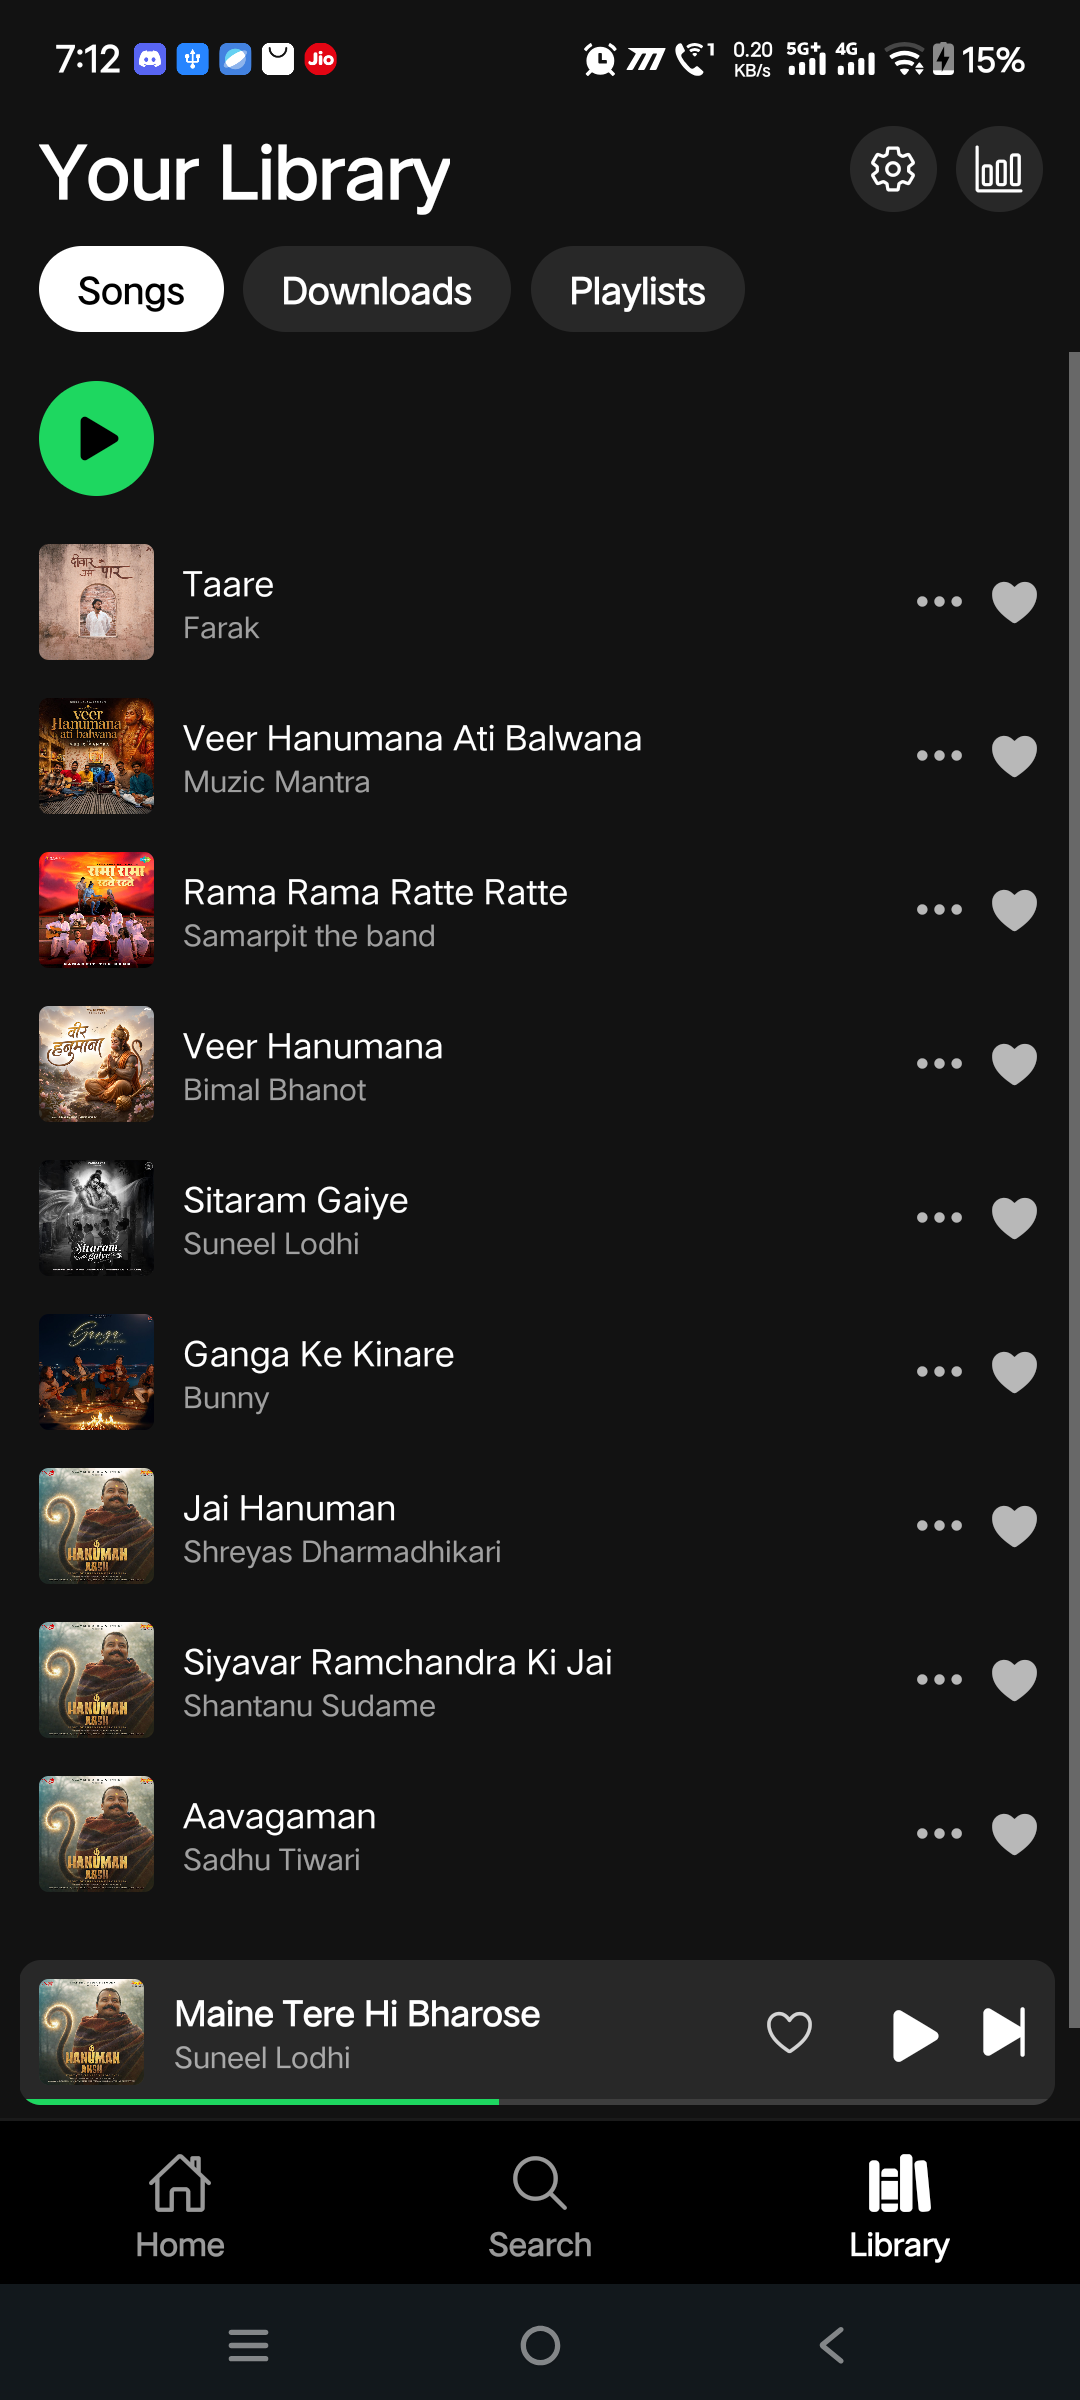
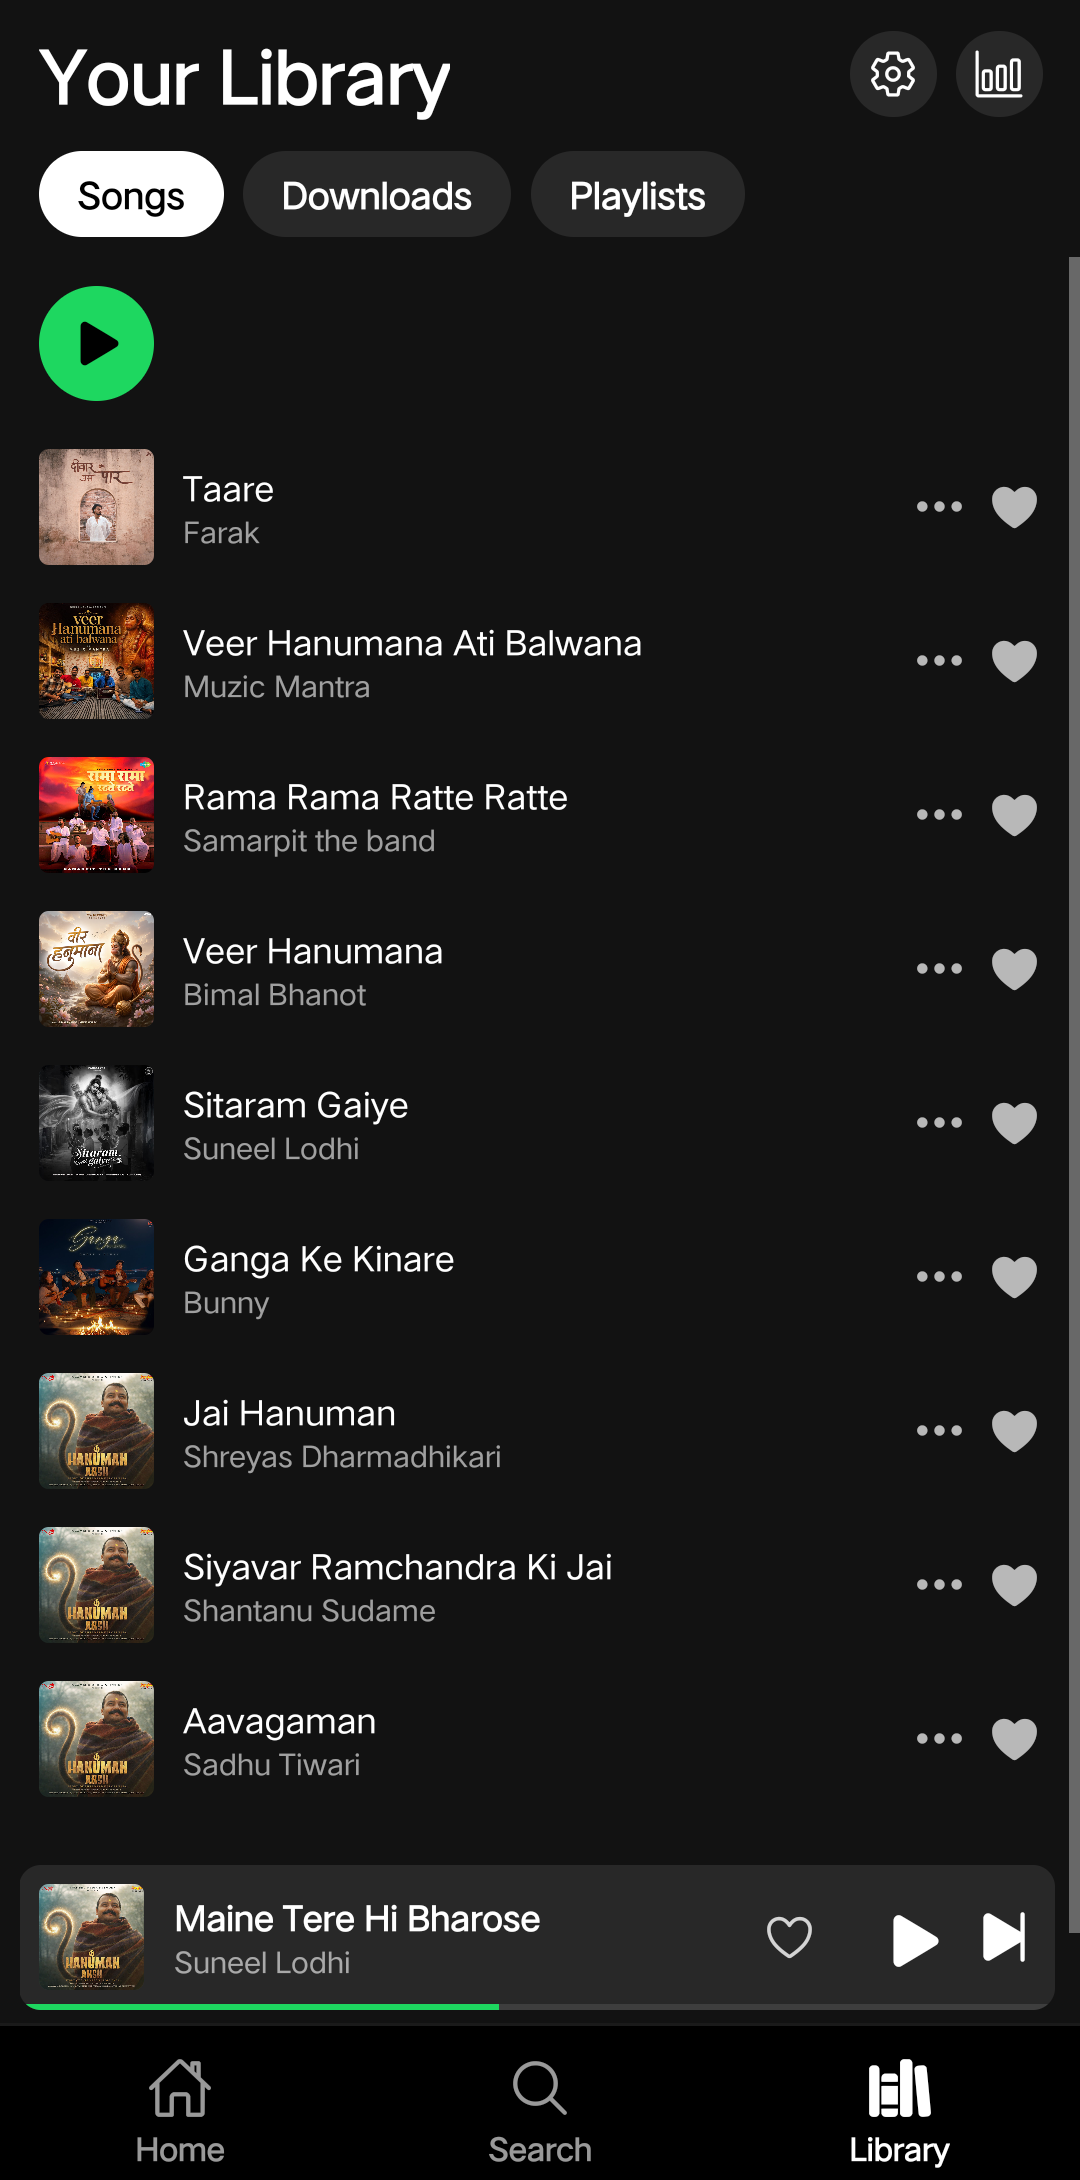
docs: crop system status/nav bars from screenshots & add in-depth feature breakdown

diff --git a/README.md b/README.md
@@ -1,107 +1,166 @@
-# 🎵 Spodify — Official Releases & Updates
+# 🎵 Spodify — The High-Fidelity Music Experience for Android
 
 [![Latest Release](https://img.shields.io/github/v/release/xauravww/spodify-releases?color=1DB954&label=Latest%20Version&style=for-the-badge)](https://github.com/xauravww/spodify-releases/releases/latest)
 [![Free](https://img.shields.io/badge/Price-100%25%20Free-1ED760?style=for-the-badge)](#-100-free-policy--scam-warning)
 [![VirusTotal](https://img.shields.io/badge/VirusTotal-Clean%20(0%20Detections)-brightgreen?style=for-the-badge)](#-security--virustotal-verification)
 [![Platform](https://img.shields.io/badge/Platform-Android%208.0%2B-blue?style=for-the-badge)](https://github.com/xauravww/spodify-releases/releases/latest)
+[![License](https://img.shields.io/badge/Status-Actively%20Maintained-success?style=for-the-badge)](#-why-is-the-source-repository-private)
 
-Welcome to the official release hub for **Spodify** — a modern, fast, and lightweight Android music streaming application designed for audio lovers who want studio-quality music without ads, bloatware, or paid subscriptions.
-
----
-
-## 📥 Download Latest Release
-
-👉 **[Download Spodify v1.0.1 APK (Latest)](https://github.com/xauravww/spodify-releases/releases/download/v1.0.1/spodify-release.apk)**
-
-> 💡 **Built-In Auto-Updater:** Spodify comes with a built-in auto-updater. Once installed, future updates will be notified directly inside the app with seamless 1-tap background downloading and installation!
+Spodify is an advanced, privacy-first Android music streaming client built with a native architecture. It delivers true **Studio Master 320 kbps** audio fidelity, multi-partner streaming failover, hardware DSP frequency tuning, real-time synchronized karaoke lyrics, and a built-in auto-updater — completely free of ads, subscriptions, and telemetry.
 
 ---
 
-## 📱 App Feature Showcase
+## 📥 Download Spodify
 
-| Home Discovery | Streaming Partners | In-App Updater | Now Playing |
-| :---: | :---: | :---: | :---: |
-| <img src="screenshots/feature_home.png" width="200" alt="Home Screen" /> | <img src="screenshots/feature_streaming_partners.png" width="200" alt="Streaming Partners" /> | <img src="screenshots/feature_updater.png" width="200" alt="In-App Updater" /> | <img src="screenshots/feature_now_playing.png" width="200" alt="Now Playing Screen" /> |
+| Release | Version | Build | Package | Status |
+| :--- | :--- | :--- | :--- | :--- |
+| **Latest** | **v1.0.1** | 2 | `spodify-release.apk` | 🟢 Stable / Recommended |
 
-| Synchronized Lyrics | Hardware Equalizer | Audio Visualizer | Live Queue |
-| :---: | :---: | :---: | :---: |
-| <img src="screenshots/feature_lyrics.png" width="200" alt="Synchronized Lyrics" /> | <img src="screenshots/feature_equalizer.png" width="200" alt="Hardware Equalizer" /> | <img src="screenshots/feature_visualizer_settings.png" width="200" alt="Audio Visualizer" /> | <img src="screenshots/feature_queue.png" width="200" alt="Queue Management" /> |
+👉 **[Direct Download: spodify-release.apk (v1.0.1)](https://github.com/xauravww/spodify-releases/releases/download/v1.0.1/spodify-release.apk)**
 
-| Universal Search | Spotify Sync | Library Hub | Offline Downloads |
-| :---: | :---: | :---: | :---: |
-| <img src="screenshots/feature_search.png" width="200" alt="Search Screen" /> | <img src="screenshots/feature_spotify_sync.png" width="200" alt="Spotify Sync" /> | <img src="screenshots/feature_library.png" width="200" alt="User Library" /> | <img src="screenshots/feature_downloads.png" width="200" alt="Offline Downloads" /> |
+> 💡 **Seamless In-App Updates:** You only need to manually install the APK once. Every subsequent update is detected automatically by the built-in updater, allowing 1-tap downloads and installation directly inside the app.
 
 ---
 
-## ✨ Key Features & Architecture
+## 📱 Visual App Tour
 
-- 🎧 **Studio Master 320 kbps Streaming:** Direct lossless-grade 320 kbps progressive audio with crystal clear highs and deep, punchy bass.
-- ⚡ **Multi-Source Streaming & Prioritization:** Choose your preferred primary streaming partner in Settings (*Studio Master 320k*, *Spotify Match*, or *Universal Catalog*).
-- 🛡 **Smart Failover Guarantee:** If a track or rare remix is missing on your primary partner, Spodify instantly streams it from the next partner with zero silence or lag.
-- 🚫 **100% Cookie-Free:** No browser extensions, no cookie copying, and no setup hassle. High quality works straight out of the box.
-- ♾ **No 56s/60s Audio Cutoff:** Fully uncapped progressive streaming ensures songs play smoothly from start to finish.
-- 🎚 **Hardware Equalizer:** 10-band DSP equalizer with bit-perfect bypass, bass boost, and audiophile sound presets.
-- 🎤 **Synchronized Karaoke Lyrics:** Millisecond-accurate word-by-word dynamic lyrics with tap-to-seek playback.
-- 🌊 **60 FPS Audio Visualizer:** Real-time frequency bars, neon waveforms, radial pulse, and customizable glow accents.
-- 📥 **Offline Downloads:** Save your favorite songs directly to your device for offline playback with zero expiration dates.
-- 🔄 **Spotify Sync:** Sync your public and private Spotify playlists seamlessly without requiring Spotify Premium credentials.
+Below is a direct tour of Spodify's core interface, captured from live playback sessions.
+
+| 🏠 Home & Discovery | ⚡ Streaming Partners | 📲 In-App Auto-Updater | 🎵 Now Playing & Artwork |
+| :---: | :---: | :---: | :---: |
+| <img src="screenshots/feature_home.png" width="220" alt="Home Screen" /> | <img src="screenshots/feature_streaming_partners.png" width="220" alt="Streaming Engine" /> | <img src="screenshots/feature_updater.png" width="220" alt="In-App Updater" /> | <img src="screenshots/feature_now_playing.png" width="220" alt="Now Playing Screen" /> |
+
+| 🎤 Synchronized Lyrics | 🎚 10-Band Hardware DSP | 🌊 60 FPS Visualizer | 📋 Dynamic Queue |
+| :---: | :---: | :---: | :---: |
+| <img src="screenshots/feature_lyrics.png" width="220" alt="Synchronized Lyrics" /> | <img src="screenshots/feature_equalizer.png" width="220" alt="Hardware Equalizer" /> | <img src="screenshots/feature_visualizer_settings.png" width="220" alt="Audio Visualizer" /> | <img src="screenshots/feature_queue.png" width="220" alt="Queue Management" /> |
+
+| 🔍 Universal Search | 🔄 Spotify Sync & Import | 📚 Your Library | 💾 Permanent Downloads |
+| :---: | :---: | :---: | :---: |
+| <img src="screenshots/feature_search.png" width="220" alt="Search Screen" /> | <img src="screenshots/feature_spotify_sync.png" width="220" alt="Spotify Sync" /> | <img src="screenshots/feature_library.png" width="220" alt="User Library" /> | <img src="screenshots/feature_downloads.png" width="220" alt="Offline Downloads" /> |
+
+---
+
+## 🚀 In-Depth Feature Breakdown
+
+### 1. 🎧 Studio Master Streaming & Multi-Partner Engine
+- **User-Selectable Engine**: Configure your prioritized streaming source under **Settings → Preferred Streaming Partner**:
+  - **Studio Master (320 kbps)**: Highest fidelity progressive stream. Delivers rich dynamic range, uncompressed acoustic depth, punchy sub-bass, and crystal-clear high frequencies.
+  - **Spotify Match**: 1:1 catalog matching based directly on Spotify track metadata, bypassing trackers and regional restrictions.
+  - **Universal Catalog**: Maximum catalog coverage with 100M+ songs, covers, Indian regional music, and live performances.
+- **Smart Failover Guarantee**: If a mirror encounters network latency, slow CDN response, or a missing regional track, Spodify's engine transparently fails over to the next mirror within milliseconds. You will never experience a stalled buffer or silence.
+- **Permanent 56s/60s Cutoff Resolution**: Unlike naive streaming bots that stall at 56s due to chunk rate limits, Spodify incorporates progressive chunk streaming with zero cutoff timeouts.
+- **100% Zero-Cookie Architecture**: No browser extensions, no cookie exports, and no expiring tokens. High-bitrate streaming works out of the box.
+
+### 2. 🎚 10-Band Hardware DSP Equalizer
+- **Direct Hardware Signal Processing**: Connects directly to Android's low-level audio output engine for latency-free real-time acoustic shaping.
+- **10 Discrete Frequency Bands**: Fine-tune specific frequencies from deep sub-bass to air harmonics:
+  `31 Hz` • `62 Hz` • `125 Hz` • `250 Hz` • `500 Hz` • `1 kHz` • `2 kHz` • `4 kHz` • `8 kHz` • `16 kHz` with ±12 dB precision control.
+- **Bit-Perfect Audiophile Bypass Switch**: Enable pure direct output to disable all DSP processing and hear the untouched studio master recording.
+- **Acoustic Presets**: Quick-switch presets for **Flat (Bit-Perfect)**, **Bass Booster**, **Acoustic**, **Vocal Enhancer**, and **Custom**.
+
+### 3. 🎤 Real-Time Synchronized Karaoke Lyrics
+- **Millisecond-Accurate Dynamic Lyrics**: Lyrics scroll dynamically with the artist's vocals in real time with high-visibility line tracking.
+- **Interactive Tap-to-Seek**: Tap any lyric line (past or upcoming) to jump playback immediately to that exact timestamp.
+- **Local Lyric Caching**: Once fetched, lyrics are saved locally for instant retrieval during offline or repeat listening.
+
+### 4. 🌊 60 FPS Real-Time Audio Visualizer
+- **Fluid Waveform Synthesis**: Renders smooth audio visualizers directly above playback controls with zero frame drops.
+- **Multiple Visual Styles**:
+  - **Equalizer Bars**: Classic multi-channel frequency spectrum bars.
+  - **Neon Waveform**: Liquid oscillating neon wave.
+  - **Radial Pulse**: Dynamic expanding acoustic pulse.
+  - **Peak Spectrum**: High-contrast audio energy visualizer.
+- **Color Accents**: Choose from Spotify Neon Green, Cyberpunk Amber, Electric Violet, or Neon Cyan.
+
+### 5. 🔍 Universal Search & Discovery Explorer
+- **Real-Time Query Completion**: Fast predictive search across tracks, artists, albums, and playlists.
+- **Genre & Mood Explorer**: Dedicated visual tiles for Bollywood, Punjabi, Hip-Hop, Pop, Indie, Chill, Rock, and Workout.
+- **Search Memory**: Quick-access chip shortcuts to re-run recent search queries instantly.
+
+### 6. 🔄 Spotify Sync & Direct URL Importer
+- **1-Tap URL Importer**: Paste any public Spotify playlist, track, or album link (`open.spotify.com/...`) to instantly resolve and match all songs with lossless audio.
+- **Account Sync**: Sync your public or private Spotify playlists and liked tracks without requiring a Spotify Premium subscription or developer API credentials.
+
+### 7. 💾 Permanent Offline Downloads
+- **Zero Expiration**: Downloaded tracks are stored locally on your device with no time limits or periodic online check-in requirements.
+- **Embedded Metadata & High-Res Art**: Downloads automatically embed ID3 tags, artist names, album titles, and high-resolution album covers.
+- **Integrated Download Manager**: Manage downloaded storage, play entirely offline in Airplane mode, and shuffle downloaded libraries.
+
+### 8. 📋 Live Session Queue & Continuous Radio
+- **Up Next Management**: Review upcoming tracks, reorder positions, or swipe to remove songs from the active queue.
+- **Infinite Radio Mode**: Spodify dynamically queues acoustically similar tracks once your selected playlist ends, ensuring non-stop music.
+
+### 9. 📲 In-App Auto-Updater
+- **Instant Version Discovery**: Automatically checks for new updates on launch using decentralized fallbacks.
+- **Changelog Dialog**: Read detailed release notes and feature improvements before deciding to update.
+- **1-Tap Direct Install**: Downloads the verified APK package directly within the app and triggers the native Android package installer. No Play Store or third-party stores needed.
 
 ---
 
 ## 🔒 Why is the Source Repository Private?
 
-We believe in radical transparency with our users. The core codebase is currently hosted in a private repository for two important reasons:
+We believe in radical transparency with our community. The core codebase is currently hosted in a private repository for two critical reasons:
 
-1. **Protecting Against Resellers & Rebranders:**  
-   Unfortunately, in the open-source community, bad actors frequently scrape music projects, strip the original author's credits, slap their own branding on it, and try to sell it or bundle it with malicious ads. Spodify was built for the community as a passion project and is **100% free** — we refuse to let anyone profit off our work.
+1. **Protecting Against Resellers & Predatory Rebranders:**  
+   In the open-source audio community, bad actors frequently scrape free projects, remove the original developer's credits, slap ads on the code, and attempt to sell the APKs. Spodify was created for the community as a passion project and is **100% free forever** — keeping the core private ensures no scammer profits off our work.
 
-2. **Long-Term Service Reliability & Stability:**  
-   From an architectural and Terms of Service perspective, keeping our routing and media resolution mechanisms private protects the streaming infrastructure from being abused, scraped, or blocked. Keeping the codebase private ensures the app remains stable, fast, and reliably working for all users for a long time.
+2. **Long-Term Service Reliability & Infrastructure Stability:**  
+   Exposing media routing pipelines, stream bypass techniques, and content delivery endpoints publicly invites scraper abuse, automated spam, and aggressive service provider lockouts. Maintaining the repository privately ensures Spodify stays fast, uninterrupted, and reliably functioning for all users over the long term.
 
-> 🛠 **Maintenance & Future:** I maintain and update Spodify personally. In the future, if we need collaborative help or if the ecosystem allows safe open-sourcing without risk of abuse, we will happily revisit making the code public.
+> 🛠 **Maintenance & Future:**  
+> Spodify is actively maintained and updated by the developer. If future conditions allow for safe open-sourcing without risking community abuse or service takedowns, making the repository public will gladly be revisited.
 
 ---
 
 ## ⚠ 100% Free Policy & Scam Warning
 
 > ### 🛑 **NEVER PAY ANYONE FOR THIS APP!**
-> Spodify is **completely free of charge**. If anyone attempts to sell you this app, charge for APK access, or ask for money/donations claiming to be associated with Spodify, **it is a scam**. Report them immediately.
+> **Spodify is completely free.**  
+> If anyone attempts to sell you this app, charge for APK access, or ask for money/donations claiming to be associated with Spodify, **it is a scam**. Report them immediately.
 
 ---
 
 ## 🛡 Security & VirusTotal Verification
 
-Every release APK is compiled from clean source and verified for security.
+Every official APK release is compiled from a clean source environment and scanned for security.
 
-- **File Name:** `spodify-release.apk`
-- **Version:** `v1.0.1` (Build 2)
-- **SHA-256 Checksum:**  
[1 lines of base64/hex data omitted]
-- **VirusTotal Report:**  
-  🔍 **[View VirusTotal Scan Results](https://www.virustotal.com/gui/file/e582f5a4ca0c6a9a18458038e642738a11a03e171b579912a14693b84e49b903)** (0 Detections / 100% Clean)
+| Parameter | Details |
+| :--- | :--- |
+| **Package Name** | `com.spodify` |
+| **Release File** | `spodify-release.apk` |
+| **Version** | `v1.0.1` (Build 2) |
+| **Target Architecture** | Universal Android (ARM64, ARMv7, x86_64) |
+| **Minimum Android** | Android 8.0+ (Oreo) |
[1 lines of base64/hex data omitted]
+| **VirusTotal Report** | [🔍 View VirusTotal Scan Results](https://www.virustotal.com/gui/file/e582f5a4ca0c6a9a18458038e642738a11a03e171b579912a14693b84e49b903) **(0 Detections / 100% Clean)** |
 
-You can verify the SHA-256 checksum yourself in terminal:
+### Checksum Verification
+You can verify the integrity of the downloaded APK file in your terminal:
 ```bash
+# Linux / macOS
 sha256sum spodify-release.apk
+
+# Windows PowerShell
+Get-FileHash spodify-release.apk -Algorithm SHA256
 ```
 
 ---
 
 ## 🕵 Privacy & Transparency
 
-- **Zero Tracking & Analytics:** We do not track what you listen to, search for, or download.
-- **No Account Required:** You do not need to register, log in, or provide an email.
-- **Zero User Data Collected:** The developer does not collect, store, or have access to any personal information or identity.
-- **No Exploits:** Spodify operates strictly on-device using publicly accessible streaming interfaces. Everything stays contained on your own phone.
+- **Zero Tracking & Analytics**: No analytics SDKs, no behavioral tracking, and no user profiling.
+- **No Account Required**: Start listening immediately with zero login screens or email requirements.
+- **Zero Personal Data Collected**: The developer does not collect, log, or have access to any user identity or personal data.
+- **No Exploits**: Operates cleanly on-device utilizing public media standards. All settings and playlists remain entirely on your own device.
 
 ---
 
 ## 🐛 Bug Reports & Feature Requests
 
-Encountered an issue or have an idea to make Spodify better?
-Feel free to open a ticket in the **[Issues Tab](https://github.com/xauravww/spodify-releases/issues)**! 
+Encountered an issue or have an idea to make Spodify even better?  
+Open a ticket on our official **[GitHub Issues](https://github.com/xauravww/spodify-releases/issues)** tracker!
 
-Please include:
+When reporting an issue, please include:
 - Your device model & Android version
 - The song or action that triggered the issue
 - Steps to reproduce
@@ -109,5 +168,5 @@ Please include:
 ---
 
 <p align="center">
-  Made with ❤ for music enthusiasts everywhere.
+  <b>Spodify</b> — Made with ❤ for music enthusiasts everywhere.
 </p>
